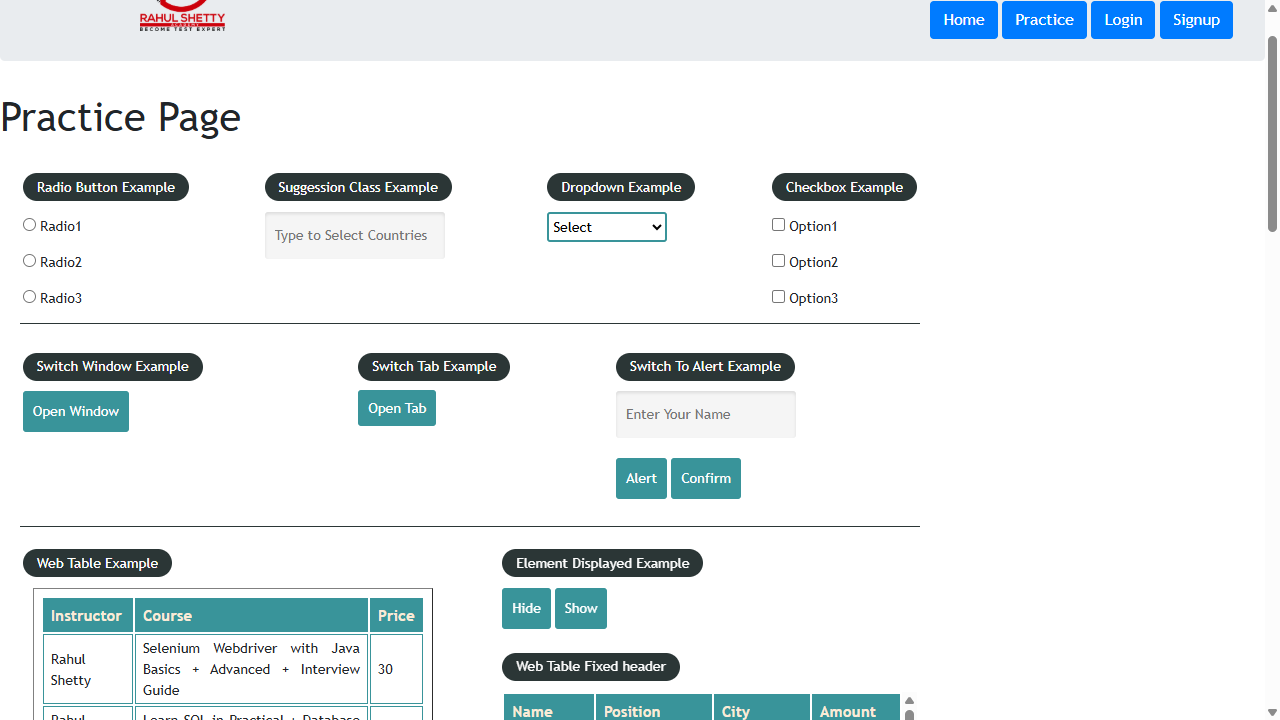
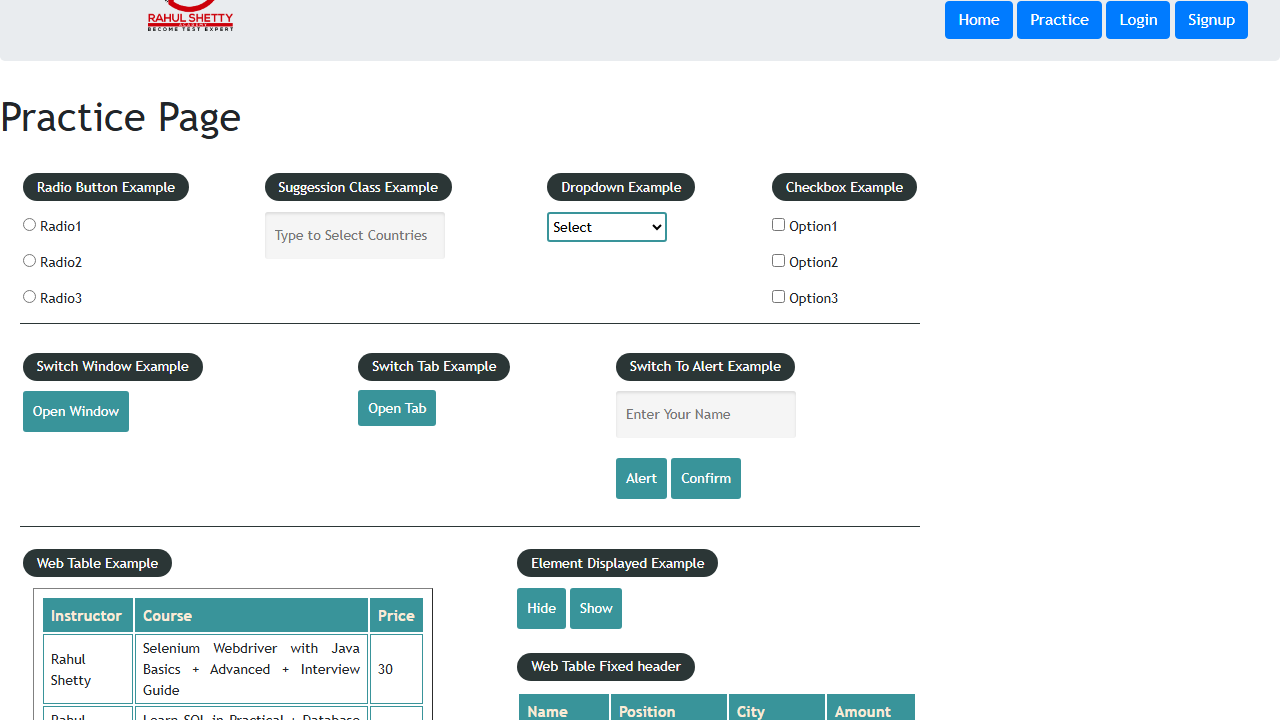
tag tests and control the execution from the command line parameters

diff --git a/tests/ClientApp.spec.js b/tests/ClientApp.spec.js
@@ -1,83 +1,7 @@
-// const { test, expect } = require('@playwright/test');
-// const { request } = require('node:http');
- 
- 
- 
- 
-// test('@Webst Client App login', async ({ page }) => {
-//    //js file- Login js, DashboardPage
-//    const email = "anshika@gmail.com";
-//    const productName = 'ZARA COAT 3';
-//    await page.route("**/*.{jpg,png,jpeg}", route=>route.abort())
-//    const products = page.locator(".card-body");
-//    await page.goto("https://rahulshettyacademy.com/client");
-//    await page.locator("#userEmail").fill(email);
-//    await page.locator("#userPassword").fill("Iamking@000");
-//    await page.locator("[value='Login']").click();
-//    page.on('request', request=> console.log(request.url()))
-//    page.on('response', response=> console.log(response.url(), response.status()))
-//    // await page.waitForLoadState('networkidle');
-//    await page.locator(".card-body b").first().waitFor();
-//    const titles = await page.locator(".card-body b").allTextContents();
-//    console.log(titles); 
-//    const count = await products.count();
-//    for (let i = 0; i < count; ++i) {
-//       if (await products.nth(i).locator("b").textContent() === productName) {
-//          //add to cart
-//          await products.nth(i).locator("text= Add To Cart").click();
-//          break;
-//       }
-//    }
- 
-//    await page.locator("[routerlink*='cart']").click();
-//    //await page.pause();
- 
-//    await page.locator("div li").first().waitFor();
-//    const bool = await page.locator("h3:has-text('ZARA COAT 3')").isVisible();
-//    expect(bool).toBeTruthy();
-//    await page.locator("text=Checkout").click();
- 
-//   await page.getByPlaceholder('Select Country').pressSequentially("ind", { delay: 150 }) 
-//    const dropdown = page.locator(".ta-results");
-//    await dropdown.waitFor();
-//    const optionsCount = await dropdown.locator("button").count();
-//    for (let i = 0; i < optionsCount; ++i) {
-//       const text = await dropdown.locator("button").nth(i).textContent();
-//       if (text === " India") {
-//          await dropdown.locator("button").nth(i).click();
-//          break;
-//       }
-//    }
- 
-//    expect(page.locator(".user__name [type='text']").first()).toHaveText(email);
-//    await page.locator(".action__submit").click();
-//    await expect(page.locator(".hero-primary")).toHaveText(" Thankyou for the order. ");
-//    const orderId = await page.locator(".em-spacer-1 .ng-star-inserted").textContent();
-//    console.log(orderId);
- 
-//    await page.locator("button[routerlink*='myorders']").click();
-//    await page.locator("tbody").waitFor();
-//    const rows = await page.locator("tbody tr");
- 
- 
-//    for (let i = 0; i < await rows.count(); ++i) {
-//       const rowOrderId = await rows.nth(i).locator("th").textContent();
-//       if (orderId.includes(rowOrderId)) {
-//          await rows.nth(i).locator("button").first().click();
-//          break;
-//       }
-//    }
-//    const orderIdDetails = await page.locator(".col-text").textContent();
-//    expect(orderId.includes(orderIdDetails)).toBeTruthy();
- 
-// });
 
 const { test, expect } = require('@playwright/test');
 
-
-
-
-test('@Webst Client App login', async ({ page }) => {
+test.skip('@Web Client App login', async ({ page }) => {
    //js file- Login js, DashboardPage
    const email = "anshikaw@yahoo.com";
    const productName = 'ZARA COAT 3';

diff --git a/tests/WebAPIPart2.spec.js b/tests/WebAPIPart2.spec.js
@@ -23,8 +23,8 @@ test.beforeAll( async({browser})=>{
     
     // PERFORM UI LOGIN - This runs only once for all tests
     await page.goto("https://rahulshettyacademy.com/client");
-   await page.locator("#userEmail").fill('anshika@gmail.com');
-   await page.locator("#userPassword").fill("Iamking@000");
+   await page.locator("#userEmail").fill('getnaveen81@gmail.com');
+   await page.locator("#userPassword").fill("Rahulshetty@1234");
    await page.locator("[value='Login']").click();
    
    // Wait for page to fully load (no network activity)
@@ -47,9 +47,9 @@ test.beforeAll( async({browser})=>{
 // ============================================================================
 // TEST 1: Full E2E - Add to cart, checkout, verify order
 // ============================================================================
-test('place the order', async()=>{
+test('@API place the order', async()=>{
 
-   const email = "anshika@gmail.com";
+   const email = "getnaveen81@gmail.com";
    const productName = 'ZARA COAT 3';
    
    // Create page from webContext - ALREADY LOGGED IN (no login needed!)

diff --git a/tests/WebAPIPart1.spec.js b/tests/WebAPIPart1.spec.js
@@ -40,7 +40,7 @@ response =  await apiUtils.createOrder(orderPayload)
 // ============================================================================
 // TEST: Verify order created via API appears in the UI
 // ============================================================================
-test('Place the order',async({page})=>{
+test('@API Place the order',async({page})=>{
 
 // INJECT TOKEN INTO BROWSER - Bypass UI login
 // addInitScript() runs JS code BEFORE the page loads any scripts

diff --git a/tests/MoreValidations.spec.js b/tests/MoreValidations.spec.js
@@ -14,7 +14,7 @@ workflows where each test relies on the successful completion of the previous on
 
 test.describe.configure({mode:"parallel"})
 // Test: handling popups and basic navigation/visibility interactions
-test('handling popups', async ({ page }) => {
+test('@Web handling popups', async ({ page }) => {
     // Navigate to a practice page that contains UI controls we'll use
     await page.goto('https://rahulshettyacademy.com/AutomationPractice/')
 

diff --git a/tests/ClientAppPO.spec.js b/tests/ClientAppPO.spec.js
@@ -7,7 +7,7 @@ const dataset = JSON.parse(
 );
 
 for (const data of dataset) {
-  test(`@Webst Client App login for ${data.productName}`, async ({ page }) => {
+  test(`@Web Client App login for ${data.productName}`, async ({ page }) => {
     const poManager = new POManager(page);
 
     // await page.route("**/*.{jpg,png,jpeg}", route=>route.abort())

diff --git a/tests/UIBasictest.spec.js b/tests/UIBasictest.spec.js
@@ -1,6 +1,6 @@
 const {test} = require('@playwright/test')
 
-test('Child Windows Handling', async ({browser})=>{
+test('@Web Child Windows Handling', async ({browser})=>{
    const context = await browser.newContext()
    const page = await context.newPage()
    await page.goto('https://rahulshettyacademy.com/loginpagePractise/')

diff --git a/playwright.config.js b/playwright.config.js
@@ -21,7 +21,7 @@ const config = {
   },
   use: {
     browserName : 'chromium',
-    headless : false,
+    headless : true,
     
     // Trace options: 'on' | 'off' | 'on-first-retry' | 'retain-on-failure'
     trace: 'on',
